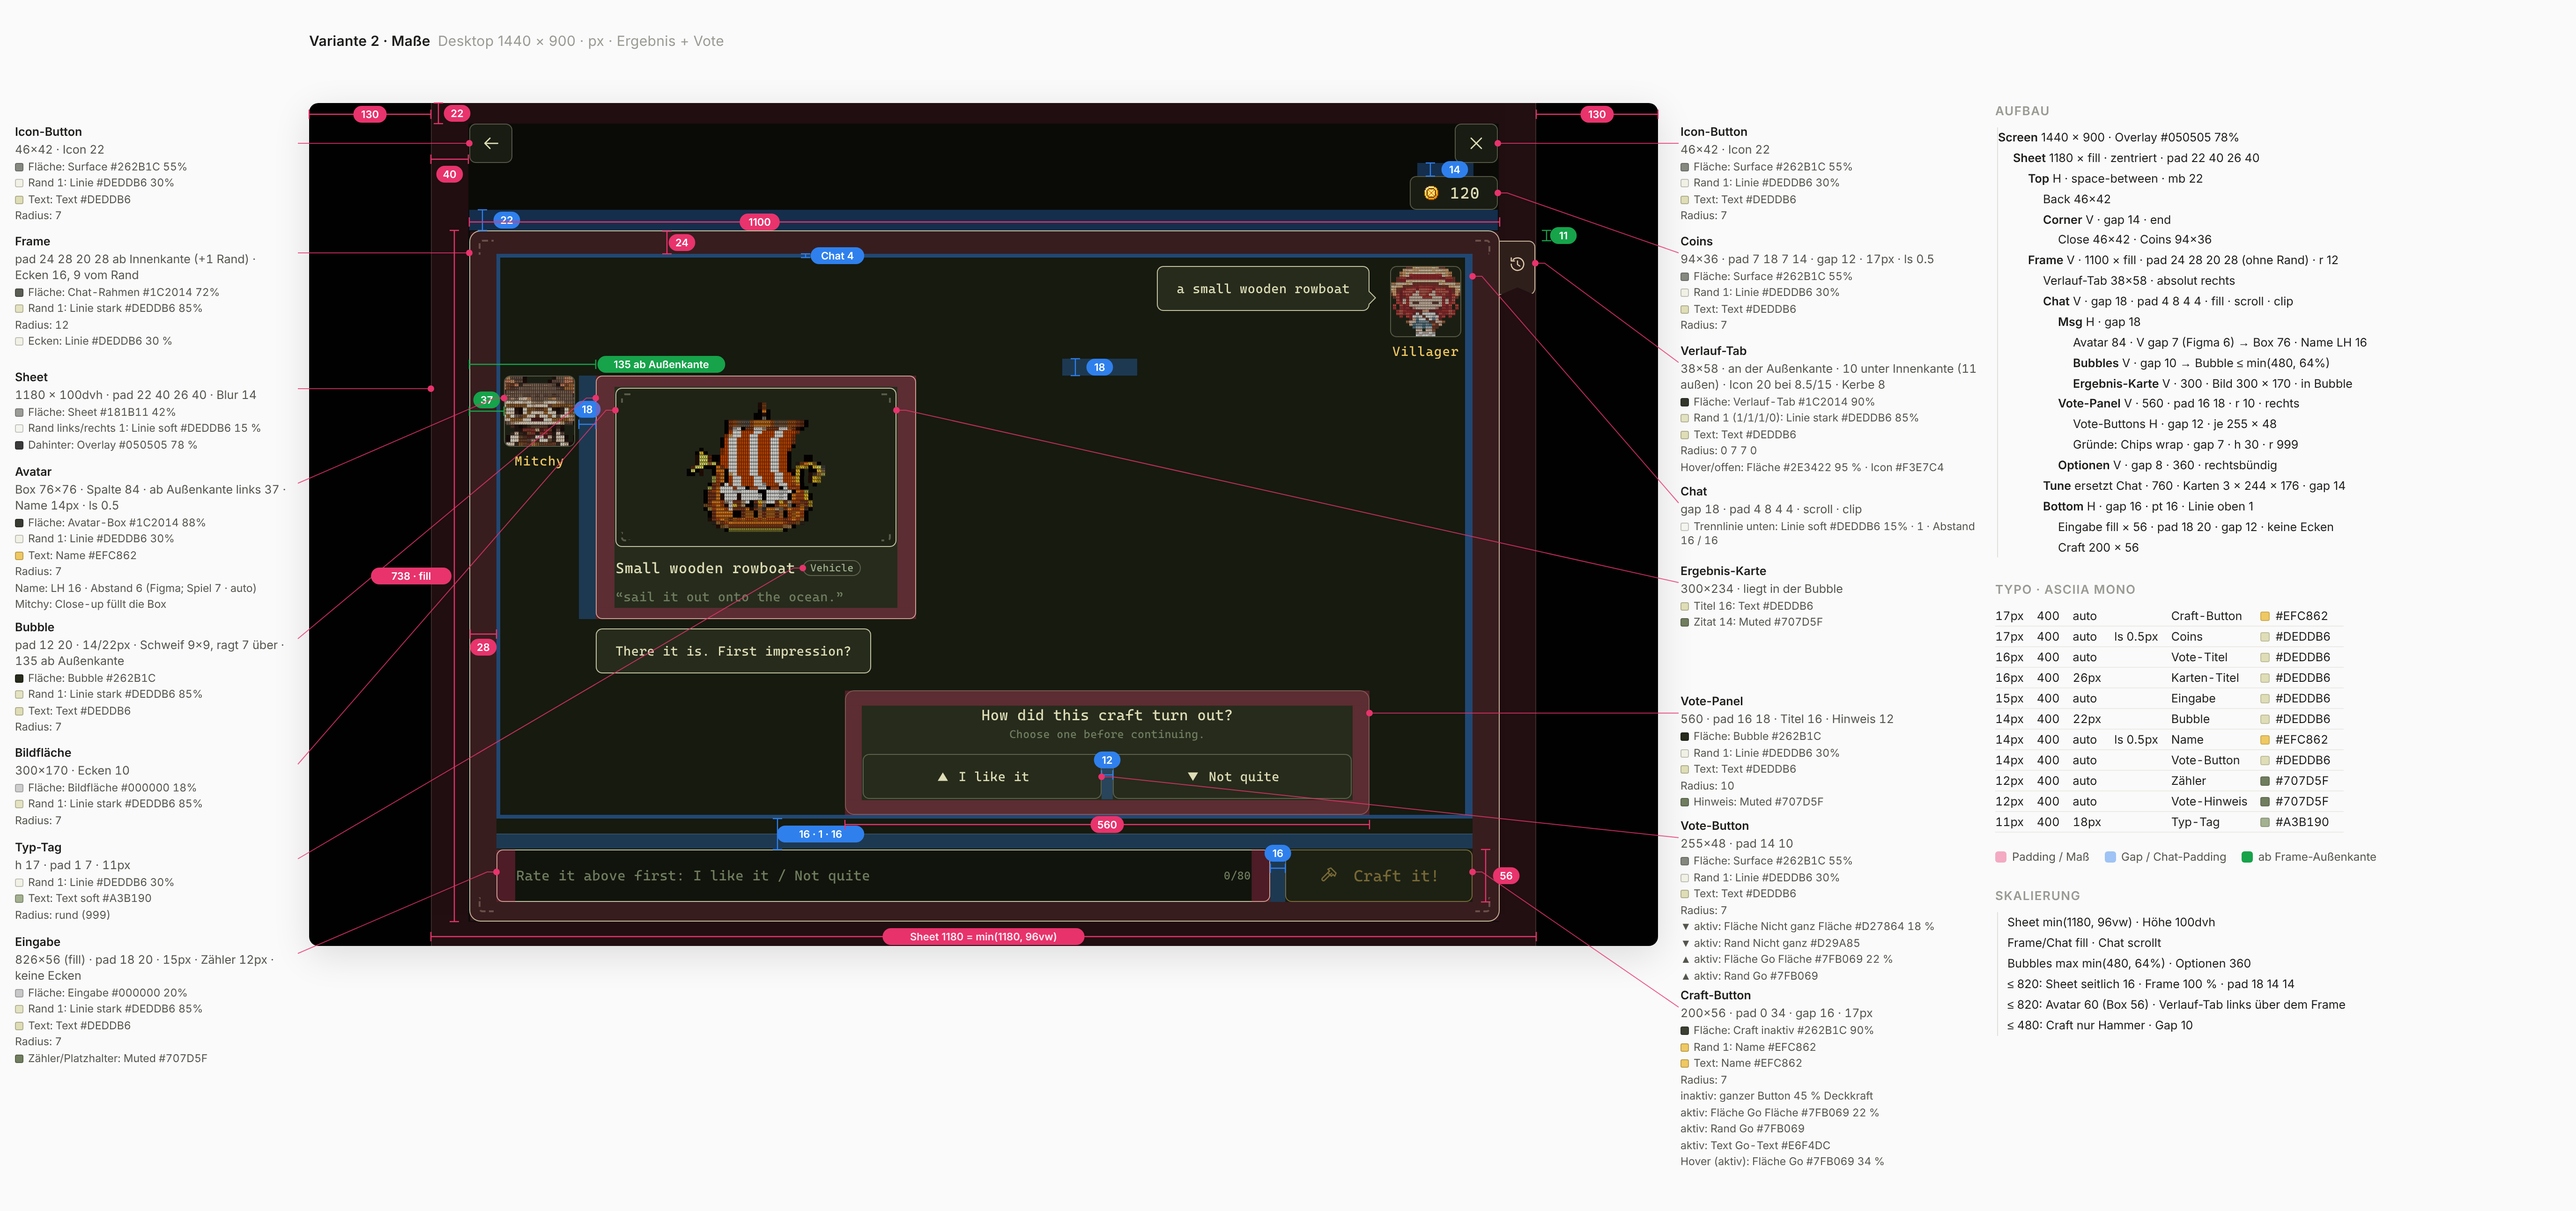
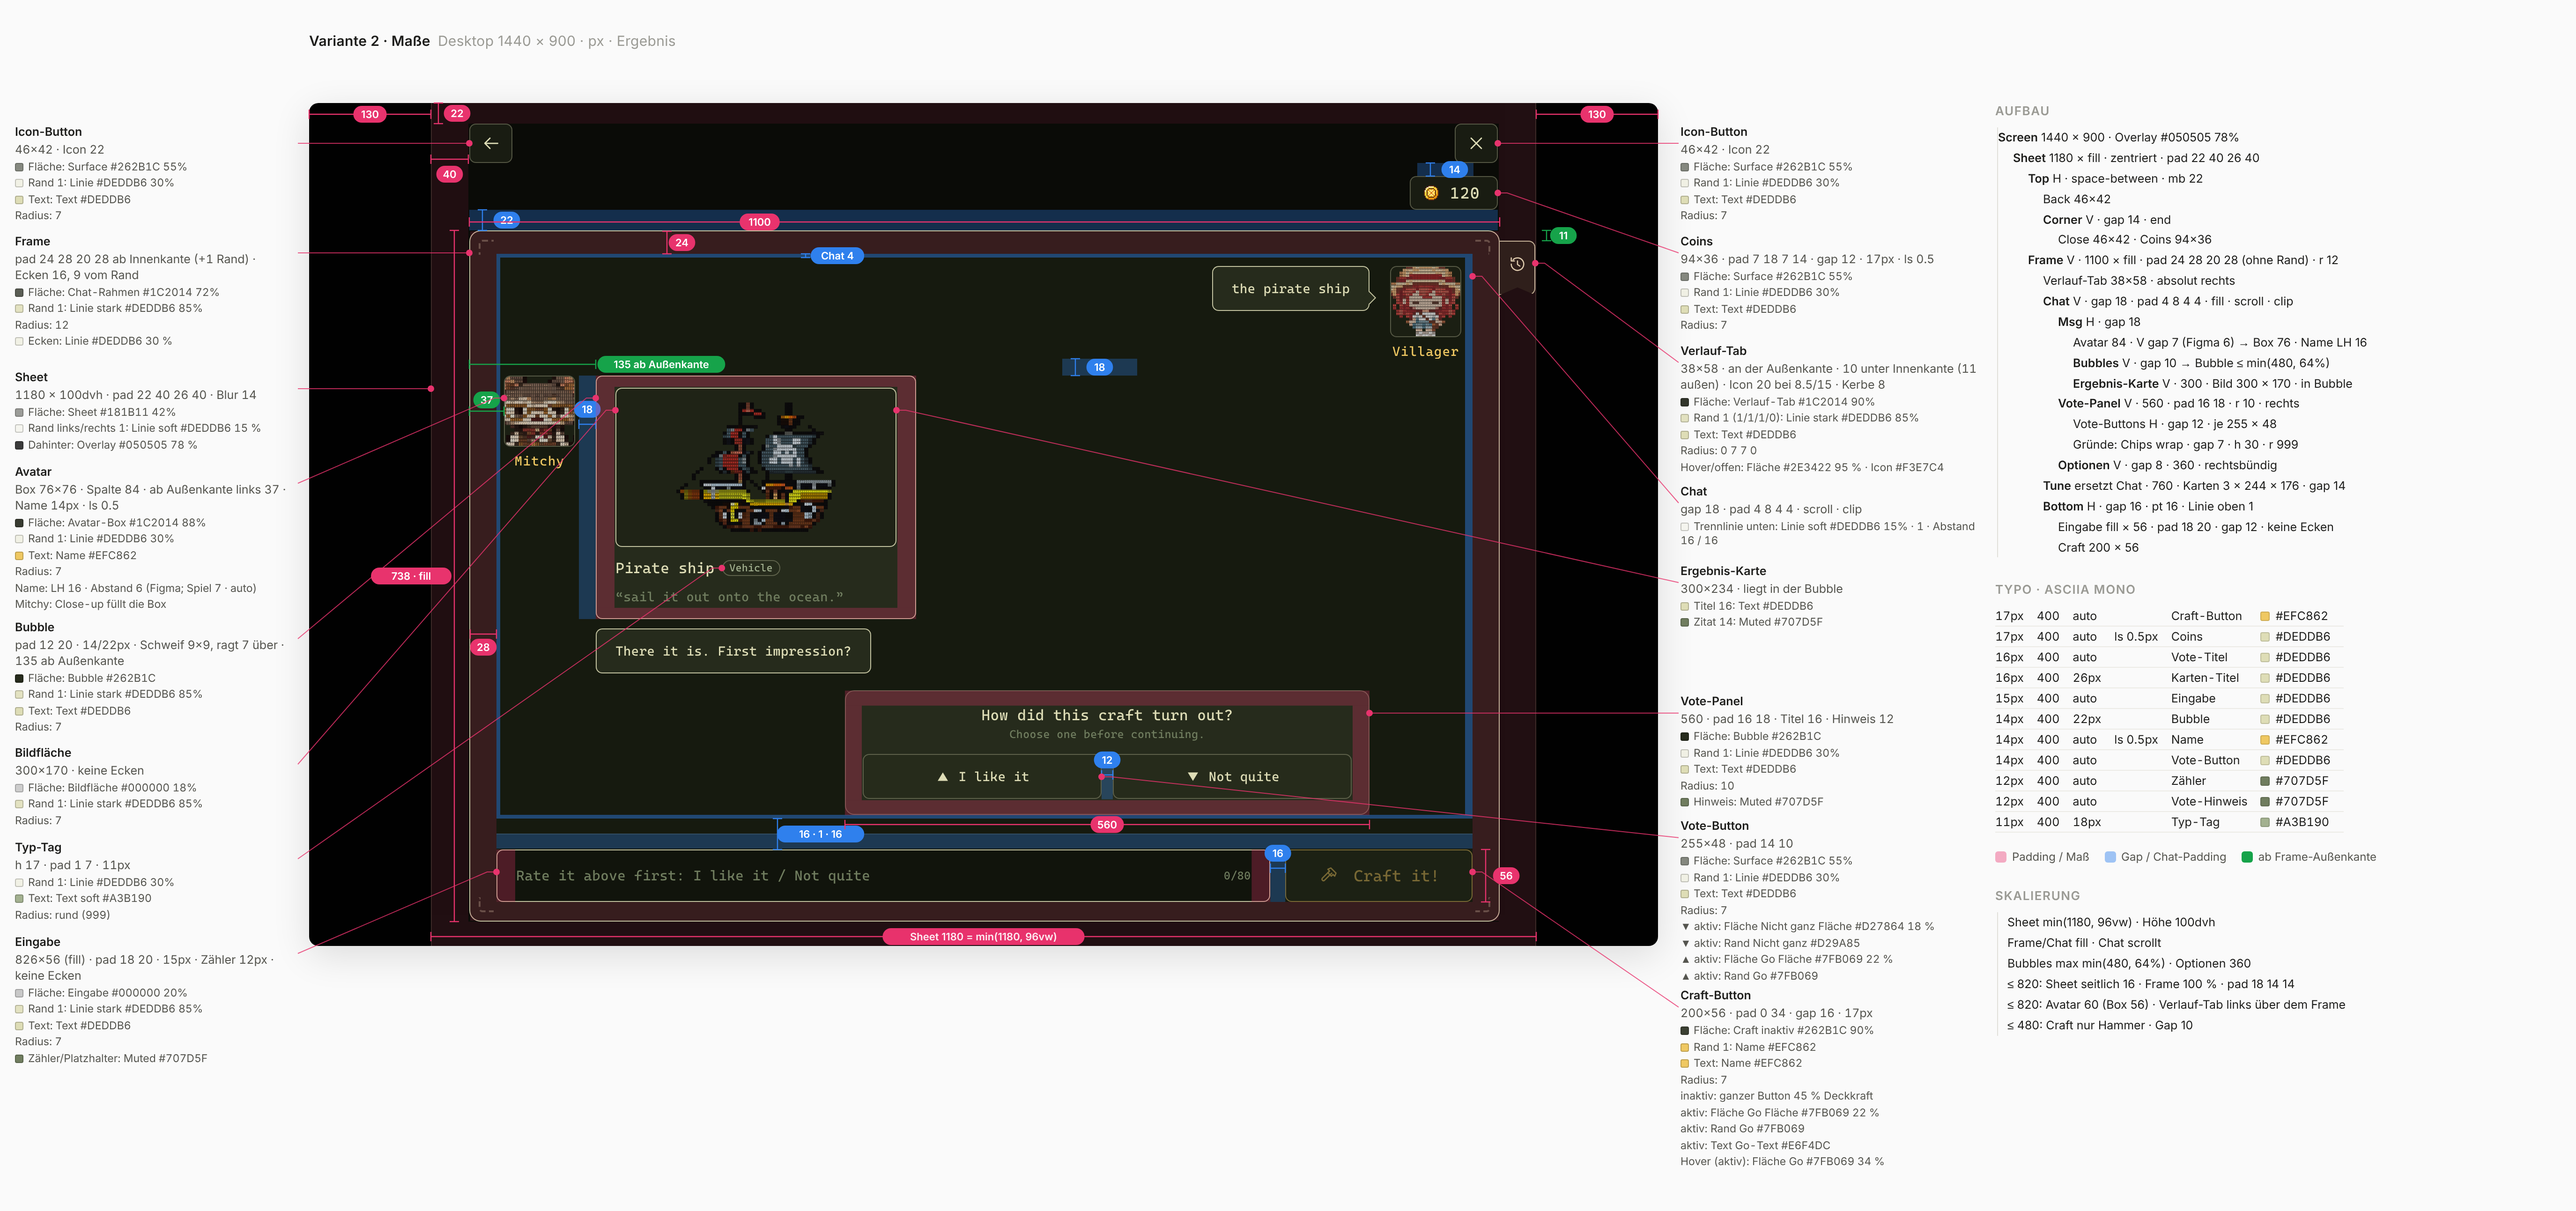
Variante 2: Durchlauf in 5 Slides (Ergebnis, Tune, gespeichert, Recraft-Option, Recraft-Ergebnis)
Claude-Session: https://claude.ai/code/session_01SdonzUkZukdS6Hs9N1LRbm

Changed region(s): [[0.2487, 0.3403, 0.342, 0.495], [0.4664, 0.2166, 0.4975, 0.2475]]

diff --git a/design/crafting-specs/specs.md b/design/crafting-specs/specs.md
@@ -65,6 +65,8 @@ SVGs je Ecke: `shared/ecken/` (einzelne Rechtecke, direkt in Figma ziehen).
 | Vote-Button | 255 × 48 · pad 14 10 · r 7 · gap 12 |
 
 ## Variante 2 · Feedback
+Durchlauf `v2/`: „the pirate ship“ → Ergebnis → I like it → Tune: Detail **Less**, Colour **Pastel**, Surprise **Surprise me**, Unknown words übersprungen, **This session** → Preferences saved → Back to the workshop → **Adjust it with these** → „a pirate ship“ → Recraft mit „made with: Fewer glyphs · Pastel colours · Surprise me“ (Asset `shared/craft/variante-b-pastell-punkte.svg`).
+
 | Komponente | Maße |
 |---|---|
 | Ergebnis-Karte | in einer Bubble · 300 breit · Bild 300 × 170 · r 7 · Typ-Tag h 17 · 11 px |
